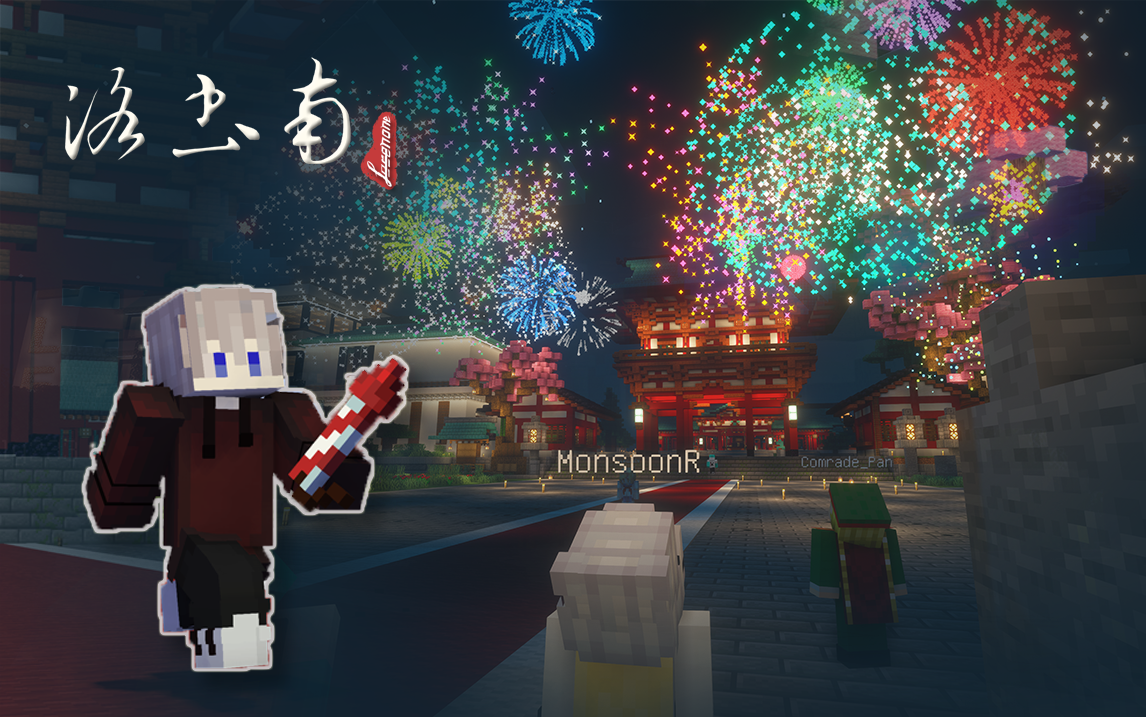
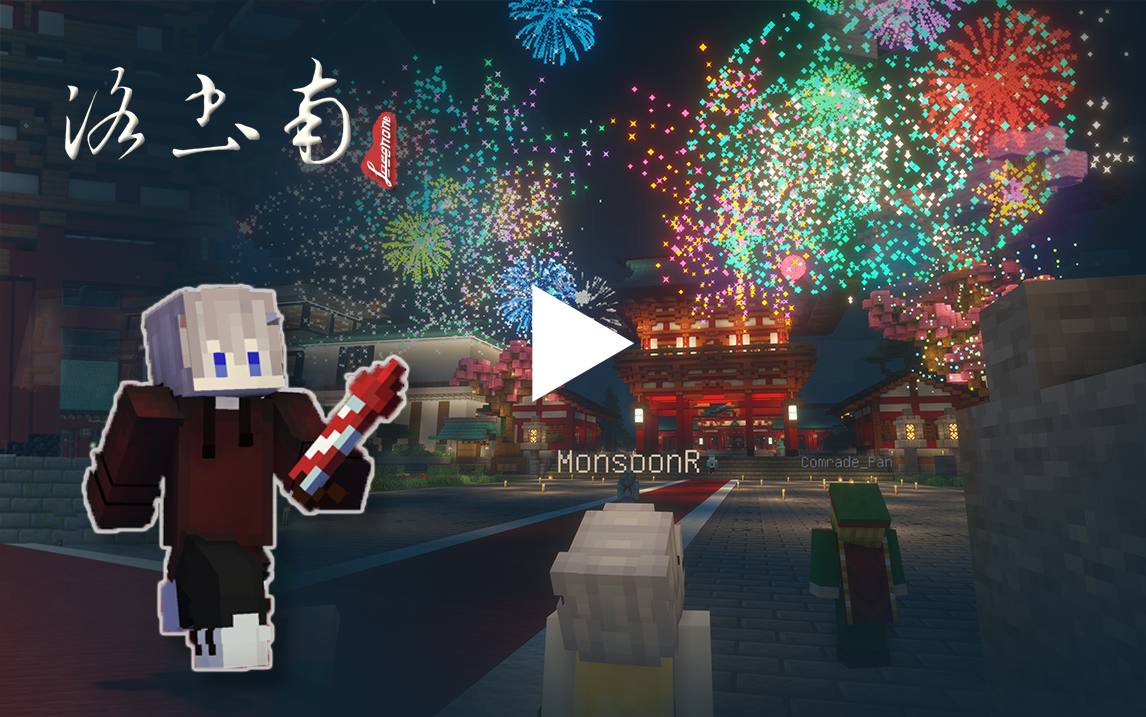
revise

Changed region(s): [[0.4581, 0.3989, 0.5497, 0.5523]]

diff --git a/index.html b/index.html
@@ -455,28 +455,11 @@
                         </div>
                         <div class="history-info mt-5">
                             <div class="position-relative">
-                                <img src="assets/images/bg.png" class="img-fluid radius-image video-popup-image" alt="video-popup">
-
-                                <a href="https://www.bilibili.com/video/BV1U3411i7Ch" class="popup-with-zoom-anim play-view text-center position-absolute">
-                                    <span class="video-play-icon">
-                                <span class="fa fa-play"></span>
-                                    </span>
-                                </a>
-
-                                <!-- dialog itself, mfp-hide class is required to make dialog hidden -->
-                                <div id="small-dialog" class="zoom-anim-dialog mfp-hide">
-                                    <iframe src="#" allowfullscreen></iframe>
-                                </div>
+                                <a href="https://www.bilibili.com/video/BV1U3411i7Ch"><img src="assets/images/bg.png" class="img-fluid radius-image video-popup-image" alt="video-popup"> </a>
                             </div>
-                        </div>
-
-                        <!-- dialog itself, mfp-hide class is required to make dialog hidden -->
-                        <div id="small-dialog" class="zoom-anim-dialog mfp-hide">
-                            <iframe src="#" allowfullscreen></iframe>
                         </div>
                     </div>
                 </div>
-            </div>
         </section>
         <!-- //home page video popup section -->
 
